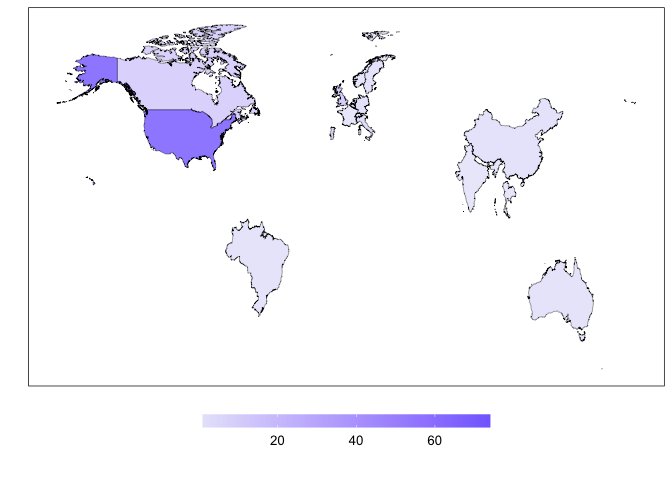
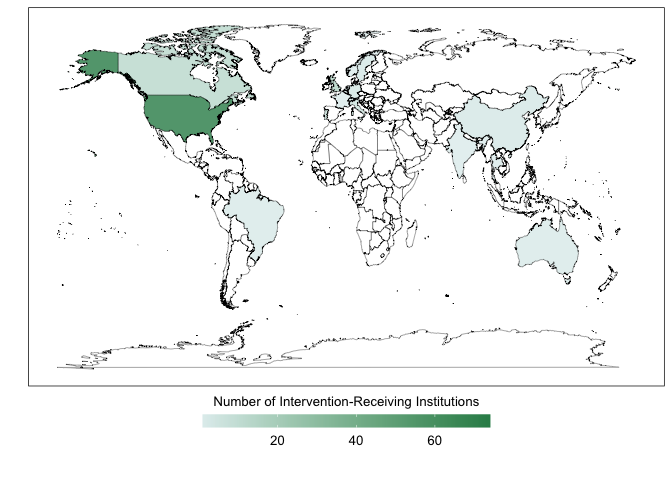
added discrete and continuous visualizations for global frequencies choropopleth, for comparison

diff --git a/scripts/cleaning-script.md b/scripts/cleaning-script.md
@@ -779,14 +779,14 @@ review_data %>% arrange(desc(count))
     ## 17 Thailand           1
 
 ``` r
-aggregated_data <- left_join(review_data,global_shapefile,by="country")
+aggregated_data <- left_join(global_shapefile,review_data,by="country")
 ```
 
 ``` r
 aggregated_data %>%
   ggplot(aes(x=long,y=lat,fill=count,group=group)) + 
   geom_polygon(color="black",linewidth=0.125,alpha=0.8) +
-  scale_fill_gradient(low="lavender",high="lightslateblue",na.value="white",name="",guide=guide_colourbar(reverse=FALSE,title.position="top",title.hjust=0.5)) +
+  scale_fill_gradient(low="azure2",high="seagreen",na.value="white",name="Number of Intervention-Receiving Institutions",guide=guide_colourbar(reverse=FALSE,title.position="top",title.hjust=0.5)) +
   xlab("") + 
   ylab("") +
   labs(caption="") +
@@ -794,6 +794,37 @@ aggregated_data %>%
 ```
 
 ![](cleaning-script_files/figure-gfm/unnamed-chunk-22-1.png)<!-- -->
+
+``` r
+aggregated_data <- aggregated_data %>% 
+  mutate(count=as.character(count))
+```
+
+``` r
+aggregated_data %>%
+  ggplot(aes(x=long,y=lat,fill=count,group=group)) + 
+  geom_polygon(color="black",linewidth=0.125,alpha=0.8) +
+  scale_fill_brewer(palette="Greens",na.value="white") +
+  xlab("") + 
+  ylab("") +
+  labs(caption="") +
+  theme(legend.key.width=unit(3,"lines"),legend.position="bottom",legend.justification="center",legend.box.spacing=unit(-15,"pt"),legend.key.size=unit(10,"pt"),panel.grid=element_blank(),panel.background=element_rect(fill="white"),panel.border=element_rect(fill=NA),axis.text=element_blank(),axis.ticks=element_blank(),legend.title=element_text(size=10),legend.text=element_text(size=10),plot.title=element_text(size=10))
+```
+
+![](cleaning-script_files/figure-gfm/unnamed-chunk-24-1.png)<!-- -->
+
+``` r
+aggregated_data %>%
+  ggplot(aes(x=long,y=lat,fill=count,group=group)) + 
+  geom_polygon(color="black",linewidth=0.125,alpha=0.8) +
+  scale_fill_brewer(palette="Purples") +
+  xlab("") + 
+  ylab("") +
+  labs(caption="") +
+  theme(legend.key.width=unit(3,"lines"),legend.position="bottom",legend.justification="center",legend.box.spacing=unit(-15,"pt"),legend.key.size=unit(10,"pt"),panel.grid=element_blank(),panel.background=element_rect(fill="white"),panel.border=element_rect(fill=NA),axis.text=element_blank(),axis.ticks=element_blank(),legend.title=element_text(size=10),legend.text=element_text(size=10),plot.title=element_text(size=10))
+```
+
+![](cleaning-script_files/figure-gfm/unnamed-chunk-25-1.png)<!-- -->
 
 ``` r
 uk_shapefile <- map_data("world",region="UK")
